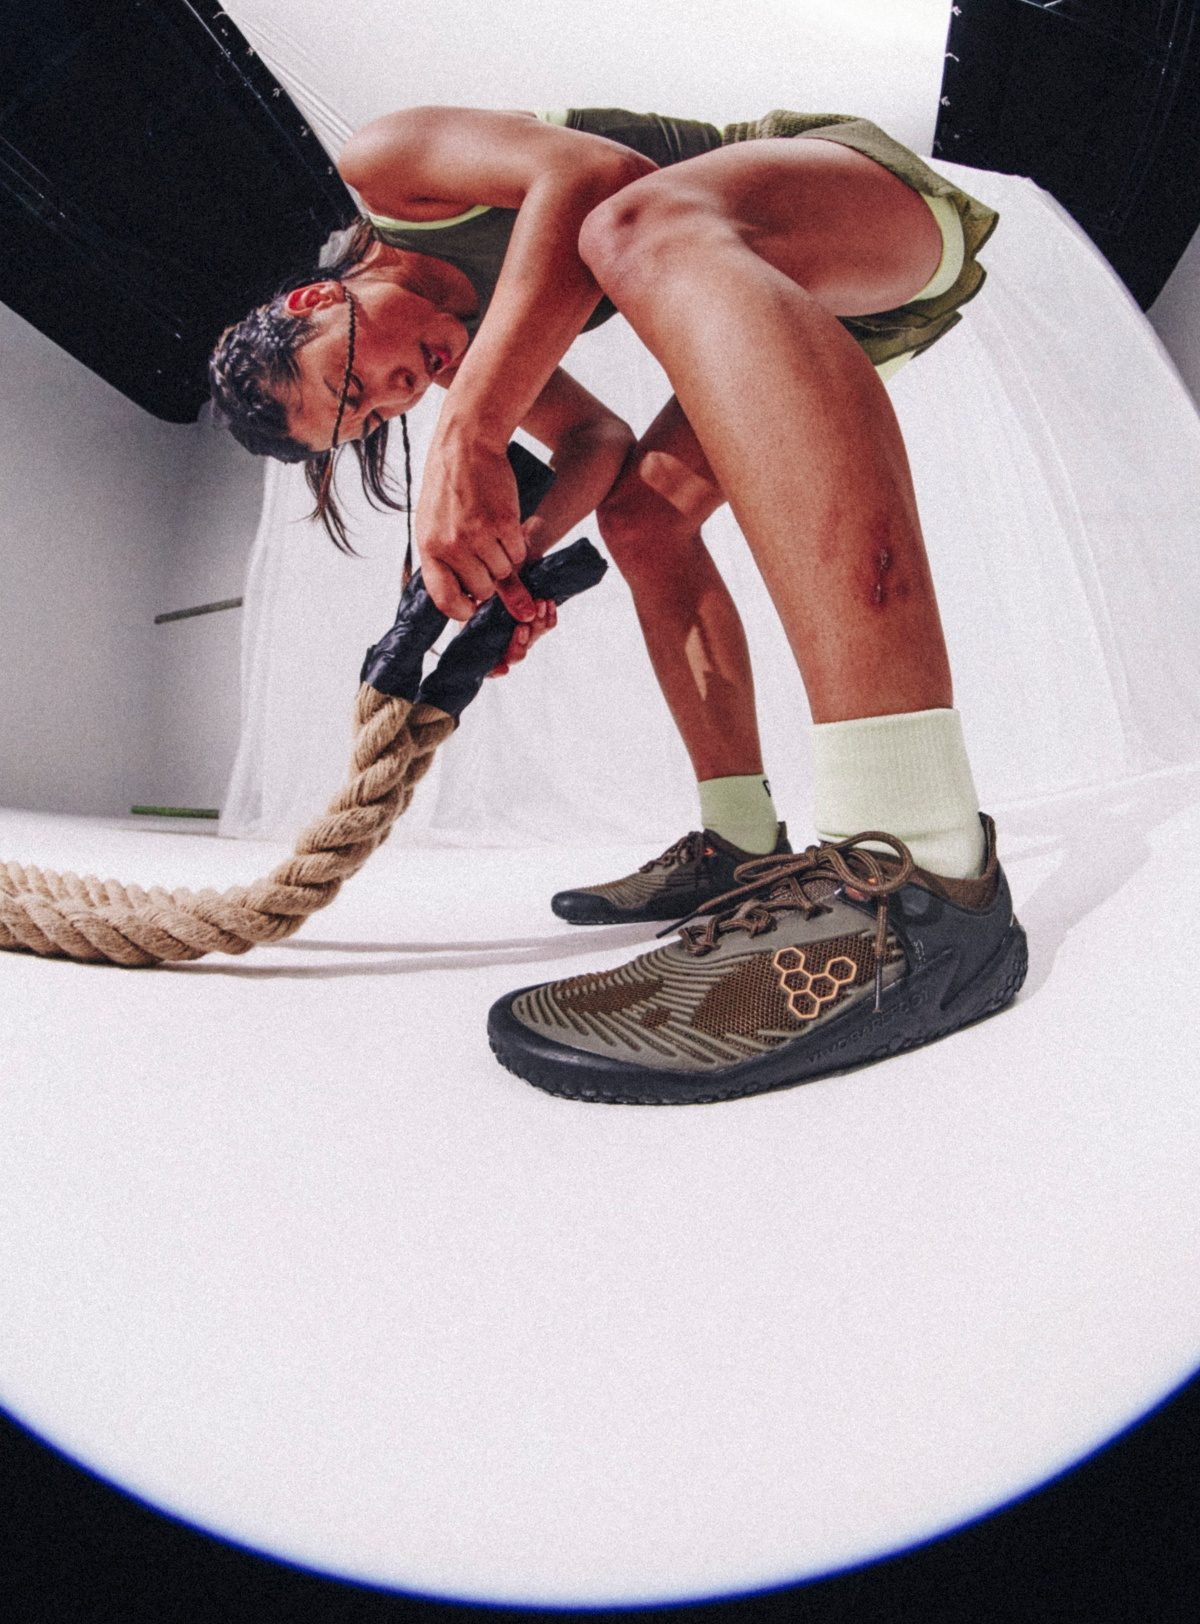
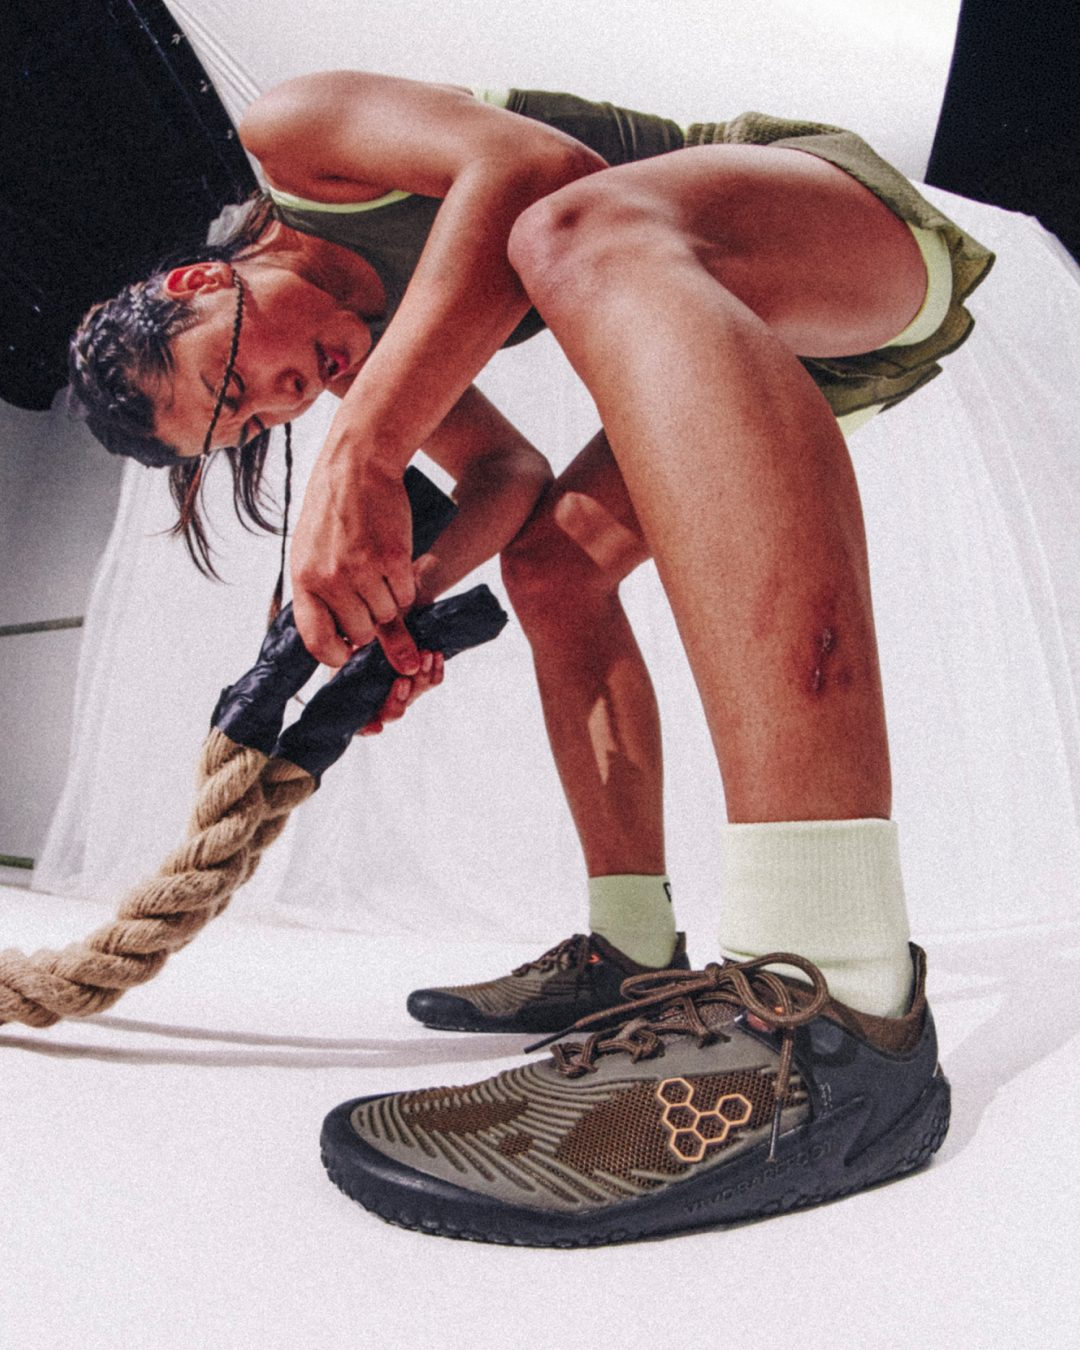
Use the uncropped Motus frame and hold the bottom on narrow screens (#13)
The file in use was the taller PLP cut of the rope shot, which carries the
fisheye vignette - a black arc across the bottom of the frame and dark corners.
The social cut is the same photograph without it, and at 1080x1350 it is
exactly the 4/5 the section asks for, so it lands with no crop at all.

Under 860px the section switches the frame to 3/2, which took the middle 23-77%
of the image and cut the shoe in half - the one thing the photograph is there to
show. Anchoring the crop to the bottom keeps the shoe whole in both sections;
above 860px the images already match the frame exactly, so nothing moves.

diff --git a/index.html b/index.html
@@ -266,7 +266,8 @@
     .brand-vivo .feat .dot { background: var(--slate); }
     @media (max-width: 860px) {
       .brand-grid, .brand-vivo .brand-grid { grid-template-columns: 1fr; direction: ltr; }
-      .brand-photo img { aspect-ratio: 3 / 2; }
+      /* the 3/2 crop cuts the shoe out of a 4/5 frame; hold the bottom */
+      .brand-photo img { aspect-ratio: 3 / 2; object-position: center bottom; }
     }
 
     /* ---------- choose ---------- */
